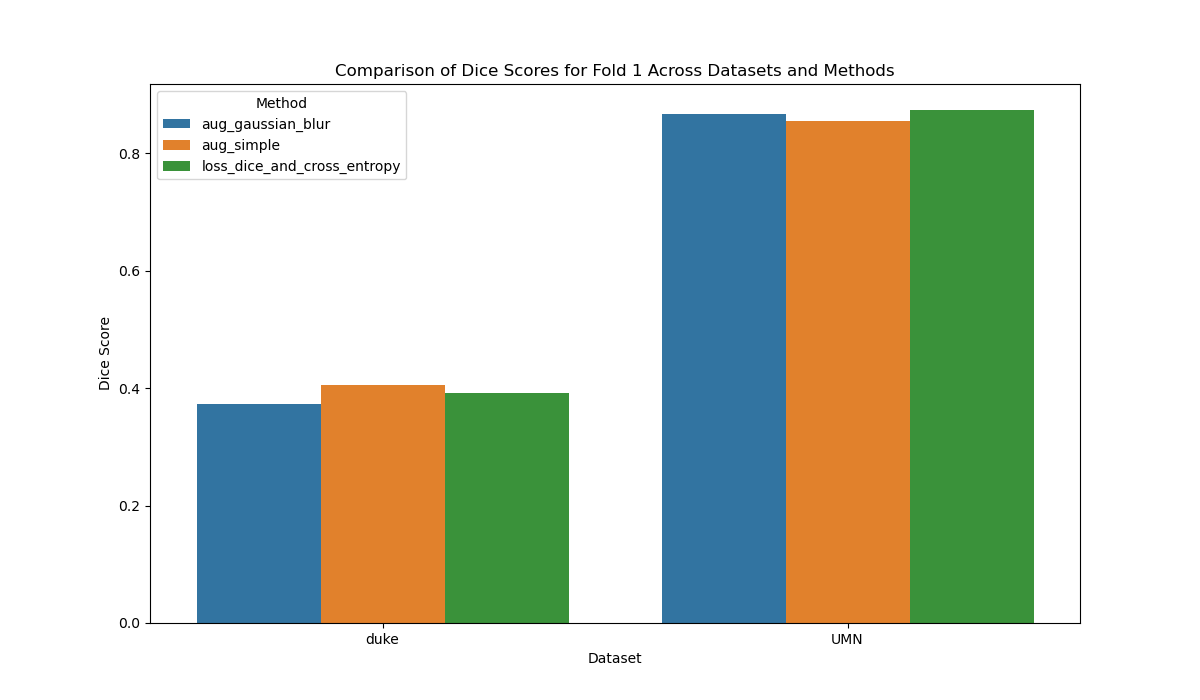
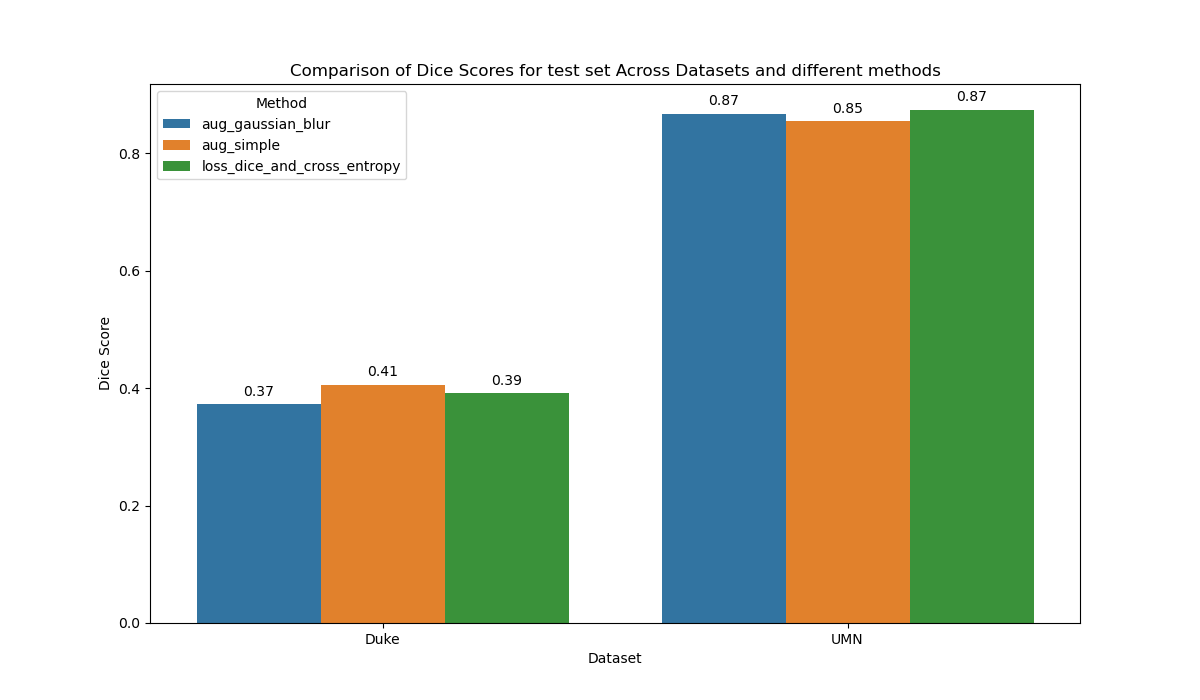
comaprison-svg-updated

diff --git a/dice_score.py b/dice_score.py
@@ -74,13 +74,18 @@ df_fold1 = df[df['Fold'] == 'fold_1']
 plt.figure(figsize=(12, 7))
 
 # Creating the bar plot
-sns.barplot(data=df_fold1, x='Dataset', y='Dice Score', hue='Method')
+bar_plot = sns.barplot(data=df_fold1, x='Dataset', y='Dice Score', hue='Method')
 
 # Adding labels and title
 plt.title('Comparison of Dice Scores for test set Across Datasets and different methods')
 plt.ylabel('Dice Score')
 plt.xlabel('Dataset')
-
+for p in bar_plot.patches:
+    bar_plot.annotate(format(p.get_height(), '.2f'),
+                      (p.get_x() + p.get_width() / 2., p.get_height()),
+                      ha='center', va='center',
+                      xytext=(0, 9),
+                      textcoords='offset points')
 # Displaying the plot
 save_path = f'D:/projects/phd_assignments/ece661/project/oct_segmentation/work_dirs/comparison_duke_and_umn/dice_plot.svg'
 plt.savefig(save_path, format='svg')
